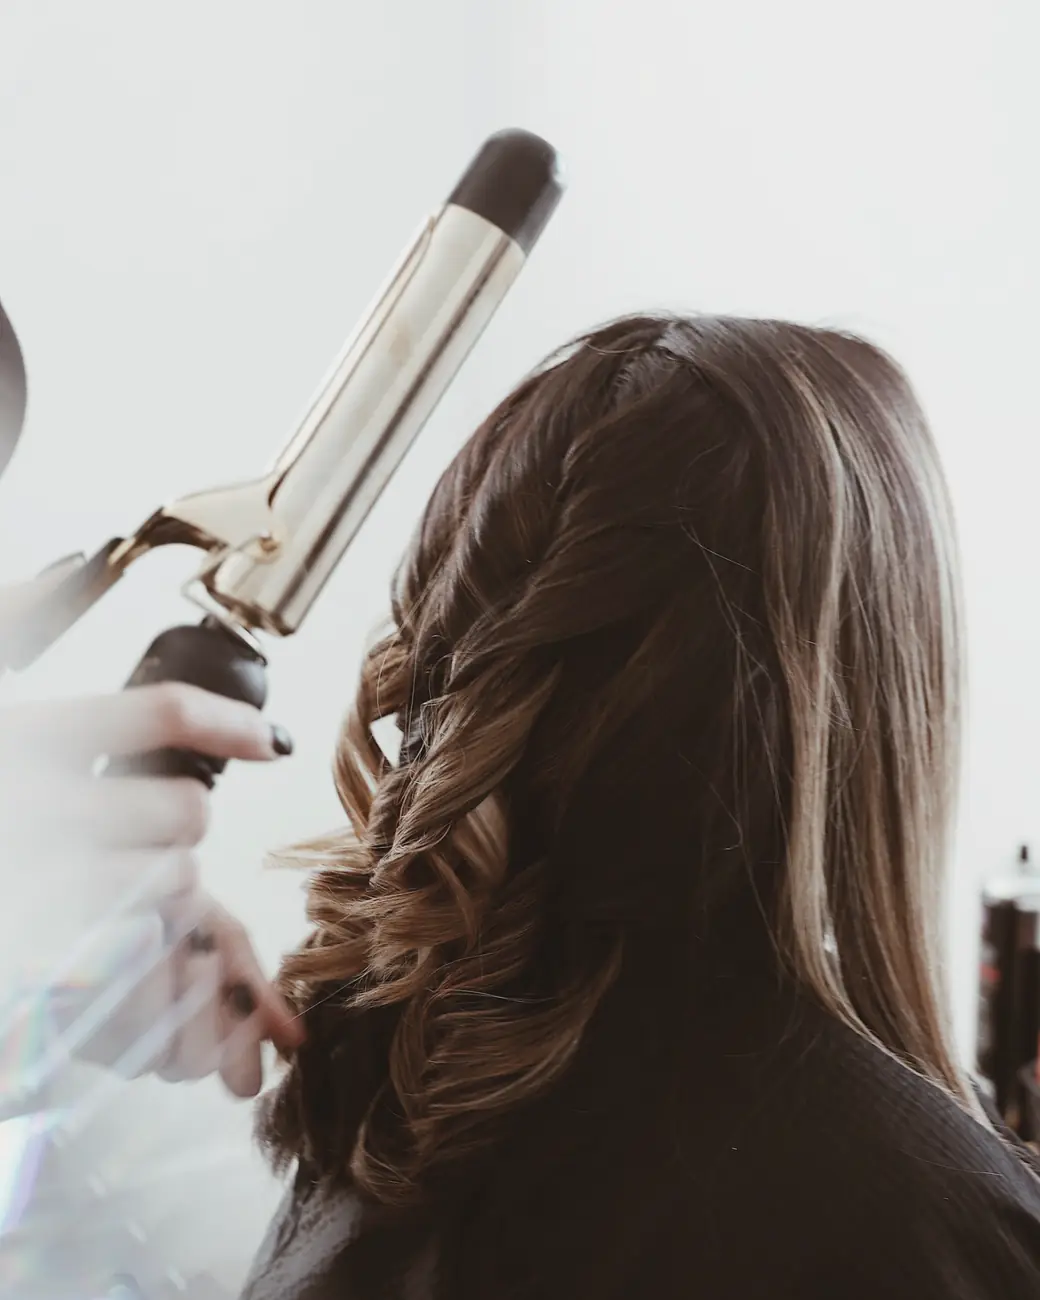
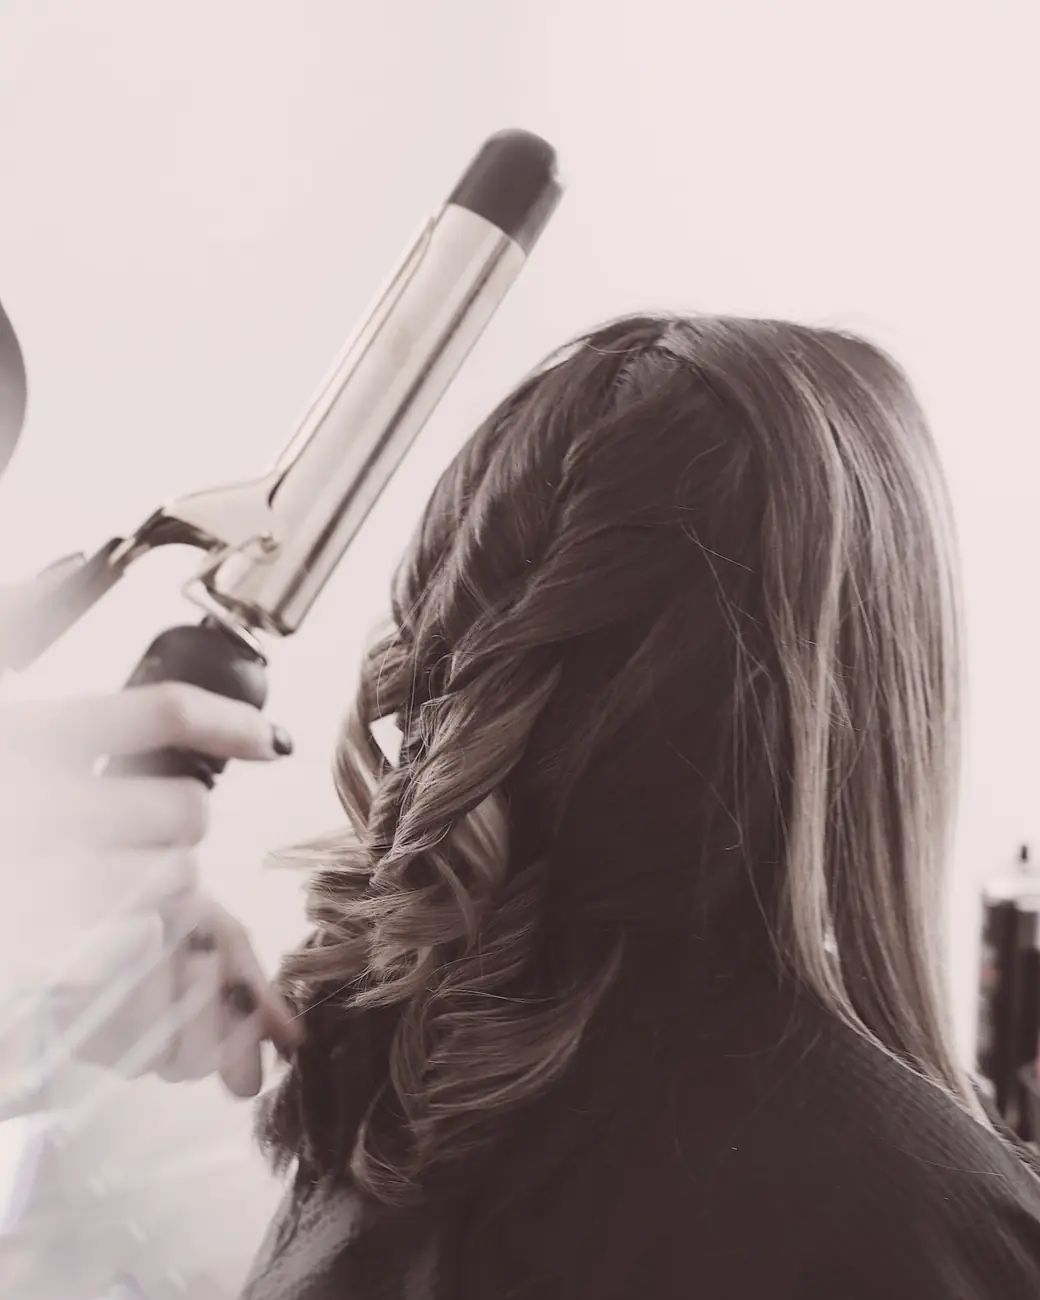
Arched photo plates with bordeaux keyline, rose duotone grade, pill controls; fix nav shift
- Photos: one arched 4:5 plate style (chosen over offset plate and V-notch), Zermatt beside the
  home intro instead of a full-width strip, one home chapter photo, five service headers.
- Grade: rose-aubergine duotone with a third of the original colour kept.
- Buttons and toggles are pills, panels 12px.
- Header: the current-page V no longer widens the link (menu shifted 8px); stable scrollbar gutter.

Claude-Session: https://claude.ai/code/session_019GP88M5awPST4XsE4MpZtr

diff --git a/app/globals.css b/app/globals.css
@@ -76,6 +76,7 @@
 
 html {
   -webkit-text-size-adjust: 100%;
+  scrollbar-gutter: stable; /* no sideways jump between pages or when a scroll lock applies */
   scroll-behavior: smooth;
 }
 @media (prefers-reduced-motion: reduce) {
@@ -158,13 +159,13 @@ h4,
 }
 
 @layer components {
-  /* ---------- Buttons: flat, square-cornered, quiet hover ---------- */
+  /* ---------- Buttons: flat, pill-shaped (echoes the arched photos), quiet hover ---------- */
   .btn {
     display: inline-flex;
     align-items: center;
     justify-content: center;
     gap: 0.5rem;
-    border-radius: 2px;
+    border-radius: 999px;
     font-weight: 500;
     line-height: 1.2;
     text-align: center;
@@ -367,10 +368,25 @@ h4,
     mask: var(--check) center / contain no-repeat;
   }
 
-  /* ---------- Photographic plates (docs/DESIGN.md, Photography) ---------- */
+  /* ---------- Photographic plates (docs/DESIGN.md, Photography) ----------
+     An arched print, like a chalet window, with a bordeaux keyline offset up and right. */
+  .plate-print {
+    position: relative;
+    margin: 0.9rem 0.9rem 0 0;
+  }
+  .plate-print::after {
+    content: "";
+    position: absolute;
+    inset: -0.9rem -0.9rem 0.9rem 0.9rem;
+    border: 1px solid rgb(var(--brand));
+    border-radius: 999px 999px 0 0;
+    pointer-events: none;
+  }
   .plate-frame {
     position: relative;
     overflow: hidden;
+    aspect-ratio: 4 / 5;
+    border-radius: 999px 999px 0 0;
     background-color: rgb(var(--subtle));
   }
   .plate-frame > img {
@@ -380,16 +396,14 @@ h4,
     width: 100%;
     object-fit: cover;
   }
-  /* Photos are graded at build time; in dark mode they step back a little. */
-  :root[data-theme="dark"] .plate-frame > img { filter: brightness(0.86); }
-  @media (prefers-color-scheme: dark) {
-    :root:not([data-theme="light"]) .plate-frame > img { filter: brightness(0.86); }
+  @media (max-width: 639px) {
+    .plate { max-width: 20rem; }
   }
   .plate-caption {
     display: flex;
     align-items: center;
     gap: 0.75rem;
-    margin-top: 0.85rem;
+    margin-top: 1rem;
     font-size: 1.05rem;
     color: rgb(var(--muted));
   }
@@ -398,39 +412,6 @@ h4,
     width: 2rem;
     height: 1px;
     background-color: rgb(var(--brand));
-  }
-
-  /* Bleed: full width on phones, then from the text edge off the right of the viewport. */
-  .plate-bleed { margin-inline: -1rem; }
-  .plate-bleed .plate-frame { aspect-ratio: 4 / 3; }
-  .plate-bleed .plate-caption { padding-inline: 1rem; }
-  @media (min-width: 640px) {
-    .plate-bleed { margin-inline: -1.5rem; }
-    .plate-bleed .plate-caption { padding-inline: 1.5rem; }
-  }
-  @media (min-width: 1024px) {
-    .plate-bleed { margin-left: 0; margin-right: calc(50% - 50vw); }
-    .plate-bleed .plate-frame { aspect-ratio: 2 / 1; }
-    .plate-bleed .plate-caption { padding-inline: 0; }
-  }
-
-  /* Portrait: a 4:5 print with the bordeaux plate set behind it, offset down and left. */
-  .plate-print { position: relative; }
-  .plate-portrait .plate-frame { aspect-ratio: 4 / 5; z-index: 1; }
-  @media (min-width: 640px) {
-    .plate-portrait { padding-left: 1.25rem; }
-    .plate-portrait .plate-print::before {
-      content: "";
-      position: absolute;
-      inset: 3rem 1.25rem -1.25rem -1.25rem;
-      background-color: rgb(var(--band-bg));
-    }
-    .plate-portrait .plate-caption { margin-top: 2rem; }
-  }
-  @media (max-width: 639px) {
-    .plate-portrait { margin-inline: -1rem; }
-    .plate-portrait .plate-frame { aspect-ratio: 4 / 3; }
-    .plate-portrait .plate-caption { padding-inline: 1rem; }
   }
 }
 
@@ -442,13 +423,19 @@ h4,
 .nav-link[aria-current="page"] {
   color: rgb(var(--brand));
 }
+
+/* The V sits outside the link box (absolute), so marking the current page never shifts the menu. */
+.nav-link[aria-current="page"] {
+  position: relative;
+}
 .nav-link[aria-current="page"]::before {
   content: "";
-  display: inline-block;
+  position: absolute;
+  right: calc(100% + 0.3em);
+  top: 50%;
   width: 0.7em;
   height: 0.7em;
-  margin-right: 0.35em;
-  vertical-align: -0.02em;
+  transform: translateY(-50%);
   background-color: rgb(var(--brand));
   -webkit-mask: var(--check) center / contain no-repeat;
   mask: var(--check) center / contain no-repeat;

diff --git a/app/[locale]/page.tsx b/app/[locale]/page.tsx
@@ -28,8 +28,8 @@ const CHAPTERS: Record<string, string[]> = {
   accompany: ["concierge", "medical", "security", "legal-real-estate"],
 };
 
-/** Desktop-only photo plates under two of the three chapter intros (the third stays text). */
-const CHAPTER_PLATES: Record<string, ImageName> = { move: "chauffeur", stay: "chalet" };
+/** Desktop-only photo under one chapter intro; the other chapters stay text. */
+const CHAPTER_PLATES: Record<string, ImageName> = { stay: "table" };
 
 /** Resorts of the route index; ids match the H3 anchors on both pillar pages. */
 const RESORTS = [
@@ -85,14 +85,16 @@ export default async function HomePage({ params }: { params: LocaleParams }) {
       {/* Airy statement */}
       <Section spacing="md">
         <div className="grid gap-10 lg:grid-cols-[minmax(0,0.9fr)_minmax(0,1.3fr)] lg:gap-24">
-          <SectionHeading title={c.intro.title} />
+          <div>
+            <SectionHeading title={c.intro.title} />
+            <Plate name="alps" locale={locale} className="mt-12 max-w-[20rem]" />
+          </div>
           <div className="max-w-prose space-y-5 text-[1.0625rem]">
             {c.intro.paragraphs.map((p) => (
               <RichText key={p} text={p} />
             ))}
           </div>
         </div>
-        <Plate name="alps" locale={locale} variant="bleed" className="mt-16 sm:mt-20" />
       </Section>
 
       {/* The services as three typographic chapters, each an itinerary */}
@@ -110,7 +112,7 @@ export default async function HomePage({ params }: { params: LocaleParams }) {
                   <h3 className="t-2">{ch.title}</h3>
                   <RichText text={ch.text} className="mt-4 max-w-sm text-muted" />
                   {CHAPTER_PLATES[ch.key] ? (
-                    <Plate name={CHAPTER_PLATES[ch.key]} locale={locale} variant="portrait" className="mt-10 hidden max-w-[17rem] lg:block" />
+                    <Plate name={CHAPTER_PLATES[ch.key]} locale={locale} className="mt-10 hidden max-w-[17rem] lg:block" />
                   ) : null}
                 </div>
                 <Itinerary size="md" items={serviceItinerary(locale, items)} />

diff --git a/src/components/Plate.tsx b/src/components/Plate.tsx
@@ -3,22 +3,19 @@ import type { Locale } from "@/lib/i18n";
 import { cn } from "./ui/cn";
 
 /**
- * A photographic plate (docs/DESIGN.md, "Photography"): one graded photo with a place caption.
- * - `bleed`: wide, runs from the text edge off the right side of the viewport (home only).
- * - `portrait`: 4:5 print with a bordeaux plate offset behind it (page headers, home chapters).
+ * A photographic plate (docs/DESIGN.md, "Photography"): one graded photo in an arched 4:5 frame
+ * with a bordeaux keyline, and a place caption when the source states the place.
  * Renders nothing when the slot has no photo.
  */
 export default function Plate({
   name,
   locale,
-  variant,
   className,
   position,
   priority,
 }: {
   name: ImageName;
   locale: Locale;
-  variant: "bleed" | "portrait";
   className?: string;
   position?: string;
   priority?: boolean;
@@ -27,7 +24,7 @@ export default function Plate({
   if (!src) return null;
   const caption = imageCaption(name, locale);
   return (
-    <figure className={cn("plate", `plate-${variant}`, className)}>
+    <figure className={cn("plate", className)}>
       <div className="plate-print">
         <div className="plate-frame">
           {/* eslint-disable-next-line @next/next/no-img-element -- static export, images are pre-sized webp */}

diff --git a/src/components/ServicesMenu.tsx b/src/components/ServicesMenu.tsx
@@ -51,7 +51,7 @@ export default function ServicesMenu({ label, allLabel, allHref, links }: Props)
           <path d="M2 4l4 4 4-4" fill="none" stroke="currentColor" strokeWidth="1.4" strokeLinecap="round" />
         </svg>
       </button>
-      <div id={id} hidden={!open} className="absolute left-1/2 top-full z-50 mt-4 w-[34rem] -translate-x-1/2 bg-surface p-7 shadow-[inset_0_0_0_1px_rgb(var(--line))]">
+      <div id={id} hidden={!open} className="absolute left-1/2 top-full z-50 mt-4 w-[34rem] -translate-x-1/2 rounded-panel bg-surface p-7 shadow-[inset_0_0_0_1px_rgb(var(--line))]">
         <ul className="grid grid-cols-2 gap-x-6 gap-y-1">
           {links.map((l) => (
             <li key={l.href}>

diff --git a/src/components/ServicePage.tsx b/src/components/ServicePage.tsx
@@ -55,7 +55,7 @@ export default function ServicePage({ locale, entry }: { locale: Locale; entry: 
           { label: t(locale, "nav.services"), path: pageSlug(locale, "services") },
           { label: shortServiceLabel(locale, entry.translationKey, entry.title), path: entryPath("services", entry.slug) },
         ]}
-        aside={photo ? <Plate name={photo} locale={locale} variant="portrait" priority /> : undefined}
+        aside={photo ? <Plate name={photo} locale={locale} priority /> : undefined}
       >
         {entry.answer ? <p className="t-lead mt-6 max-w-3xl">{entry.answer}</p> : null}
         <div className="mt-8 flex flex-wrap items-center gap-6">

diff --git a/src/components/ui/Panel.tsx b/src/components/ui/Panel.tsx
@@ -17,7 +17,7 @@ export default function Panel({
 } & { [K in `aria-${string}`]?: string }) {
   const pad = padding === "sm" ? "p-5" : padding === "lg" ? "p-6 sm:p-10" : "p-6 sm:p-8";
   return (
-    <Tag className={cn("rounded-soft bg-surface shadow-[inset_0_0_0_1px_rgb(var(--line))]", pad, className)} {...rest}>
+    <Tag className={cn("rounded-panel bg-surface shadow-[inset_0_0_0_1px_rgb(var(--line))]", pad, className)} {...rest}>
       {children}
     </Tag>
   );

diff --git a/tailwind.config.ts b/tailwind.config.ts
@@ -28,8 +28,8 @@ const config: Config = {
         base: ["1.0625rem", { lineHeight: "1.65" }],
       },
       borderRadius: {
-        /* Near-square corners everywhere (docs/DESIGN.md). */
-        soft: "2px",
+        soft: "999px", // pill for buttons and toggles, echoing the arched photos (docs/DESIGN.md)
+        panel: "12px",
       },
       maxWidth: { prose: "65ch" },
     },

diff --git a/scripts/brand/grade_photos.py b/scripts/brand/grade_photos.py
@@ -1,10 +1,10 @@
 """Grade and export site photography to public/images/ (docs/DESIGN.md, Photography).
 
 Every photo gets the same treatment so stock pictures read as one series, in the brand's palette:
-slightly desaturated, shadows pulled towards ink (#221A1C), highlights towards paper (#F6F1F1),
-then cropped to its slot ratio and saved as metadata-free WebP.
+a rose-aubergine duotone with a third of the original colour kept, then cropped to its slot ratio
+and saved as metadata-free WebP.
 
-Usage: python3 scripts/brand/grade_photos.py <src.jpg> <name> <bleed|portrait> [focus_x focus_y]
+Usage: python3 scripts/brand/grade_photos.py <src.jpg> <name> portrait [focus_x focus_y]
 focus_x/focus_y (0..1) place the crop window; default is the centre.
 """
 
@@ -13,9 +13,9 @@ from pathlib import Path
 
 from PIL import Image, ImageEnhance
 
-INK = (34, 26, 28)
-PAPER = (246, 241, 241)
-SLOTS = {"bleed": (2000, 1000), "portrait": (1040, 1300)}  # 2:1 and 4:5
+DUO_DARK = (52, 34, 40)
+DUO_LIGHT = (246, 226, 224)
+SLOTS = {"portrait": (1040, 1300)}  # 4:5, shown in an arched frame
 OUT = Path(__file__).resolve().parents[2] / "public" / "images"
 
 
@@ -31,14 +31,14 @@ def crop_to(img: Image.Image, ratio: float, fx: float, fy: float) -> Image.Image
 
 
 def grade(img: Image.Image) -> Image.Image:
-    img = ImageEnhance.Color(img).enhance(0.8)
-    img = ImageEnhance.Contrast(img).enhance(0.94)
-    # Split tone: per-channel curve mapping 0 -> ink and 255 -> paper, blended at 35% so the
-    # photo keeps its own colour but sits on the site's tinted neutrals.
-    luts = []
-    for lo, hi in zip(INK, PAPER):
-        luts += [round(v * 0.65 + (lo + (hi - lo) * v / 255) * 0.35) for v in range(256)]
-    return img.point(luts)
+    # Rose-aubergine duotone (aubergine #342228 -> blush #F6E2E0), then 35% of the original colour
+    # back in, so warm lights (windows, candles) still glow but every photo shares the palette.
+    duo = []
+    for dark, light in zip(DUO_DARK, DUO_LIGHT):
+        duo.append([round(dark + (light - dark) * (v / 255) ** 0.72) for v in range(256)])
+    grey = img.convert("L")
+    toned = Image.merge("RGB", [grey.point(lut) for lut in duo])
+    return Image.blend(toned, ImageEnhance.Color(img).enhance(0.8), 0.35)
 
 
 def main() -> None:

diff --git a/docs/DESIGN.md b/docs/DESIGN.md
@@ -30,16 +30,19 @@ The logo already holds that idea: a bordeaux V drawn as a check mark. Everything
 - **Motion:** only the hero check drawing in and quiet hover states. No fade-up on scroll.
 - **Photography (revised 2026-10-27, Sam: "a lot of text right now"):** six Unsplash photos, used
   sparingly, until the owner supplies her own. All are graded with `scripts/brand/grade_photos.py`
-  (desaturated, shadows towards ink, highlights towards paper) so they read as one series, and
-  credited in `public/images/CREDITS.md`. They appear only as *plates* (`src/components/Plate.tsx`):
-  - **bleed**: one wide 2:1 photo on the home page, running from the text edge off the right of the
-    viewport, with a place caption after a short bordeaux rule;
-  - **portrait**: a 4:5 print with a bordeaux plate offset behind it (the band colour), in the header
-    of five service pages (chalets, transfers, chauffeur, events, Glam Team) and under two home
-    chapters on desktop.
+  (rose-aubergine duotone with a third of the original colour kept) so they read as one series in
+  the site's palette, and credited in `public/images/CREDITS.md`. They appear only as *plates*
+  (`src/components/Plate.tsx`): a 4:5 photo in an **arched frame** (a chalet window) with a 1px
+  bordeaux keyline offset up and right, and a place caption after a short bordeaux rule. Where:
+  the header of five service pages (chalets, transfers, chauffeur, events, Glam Team), beside the
+  home intro (Zermatt) and under one home chapter on desktop. Chosen by Sam over an offset bordeaux
+  plate and a V-notch cut; a full-width photo strip was tried and dropped (too heavy).
   No photos on medical, security, legal, concierge or child transport pages (nothing truthful to show
   from stock). Never people's faces, never a photo presented as the owner's own work. Captions name
   the real place only when the photo's source confirms it.
+- **Corners (2026-10-27, Sam: "a bit rough"):** buttons, the theme toggle and other controls are
+  pills (`rounded-soft` = 999px), echoing the arch; panels and the services dropdown use 12px
+  (`rounded-panel`). Form fields stay underlined (correspondence card).
 
 ## Banned on this site (from the skill)
 Tracked all-caps eyebrow labels above headings; `AccentText`-style single accented words;

diff --git a/AGENTS.md b/AGENTS.md
@@ -9,7 +9,7 @@ Next.js static export, French first (`/fr/`), English second (`/en/`).
 - Interface text (menu, buttons, labels, image alt text and captions): `src/i18n/fr.json` and `src/i18n/en.json`.
 - Resort facts (access, events): `content/facts/resorts.md`, the only source for those facts.
 - Photos: `public/images/*.webp`, declared in `src/lib/images.ts`, credited in `public/images/CREDITS.md`.
-  New photos go through `python3 scripts/brand/grade_photos.py <src> <name> <bleed|portrait>`.
+  New photos go through `python3 scripts/brand/grade_photos.py <src> <name> portrait`.
 - Design rules: `docs/DESIGN.md` (binding). Content plan and SEO: `docs/PLAN.md`.
 
 ## Rules
